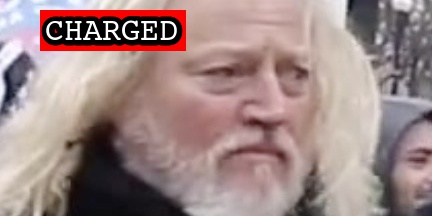
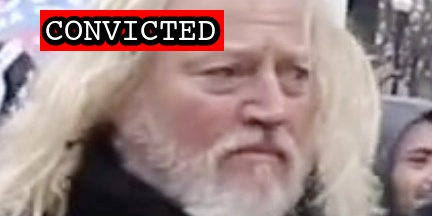
Add missing conviction

Changed region(s): [[0.1204, 0.0278, 0.5417, 0.25]]

diff --git a/docs/_suspects/luke-faulkner.md b/docs/_suspects/luke-faulkner.md
@@ -4,16 +4,16 @@ lastName: Faulkner
 hashtag:
 aka:
 residence: Ohio
-status: Charged
+status: Convicted
 date: 2021-12-07
 charged: 2021-12-07
 indicted:
-convicted:
+convicted: 2022-10-13
 acquitted:
 sentenced:
 dismissed:
 deceased:
-plea_hearing:
+plea_hearing: 2022-10-13
 trial_date:
 trial_type:
 sentencing: 2023-01-20
@@ -31,7 +31,7 @@ raid:
 perpwalk:
 quote:
 title: Luke Faulker charged on December 7, 2021
-description: Click for latest case details. Suspects innocent until proven guilty.
+description: Convicted on October 13, 2022. Click for latest case details.
 author: seditiontrack
 layout: suspect
 published: true
@@ -40,8 +40,13 @@ caseName: USA v. FAULKNER
 judge: Randolph D. Moss
 videos:
 charges:
+- code: 40 USC § 5104(e)(2)(G)
+  title: Parading, demonstrating or picketing in a Capitol building
+  url: https://www.law.cornell.edu/uscode/text/40/5104
+  felony: false
 sentence:
 ---
 - [News Report](https://www.springfieldnewssun.com/local/beavercreek-man-accused-of-entering-us-capitol-during-jan-6-riots/JTTNYTX6EFBWJPEOZXFEAJKBGQ/)
 - [Statement of Facts](https://www.justice.gov/usao-dc/case-multi-defendant/file/1459206/download)
 - [Information](https://www.justice.gov/usao-dc/case-multi-defendant/file/1459211/download)
+- [Plea Agreeement](https://storage.courtlistener.com/recap/gov.uscourts.dcd.238348/gov.uscourts.dcd.238348.59.0_1.pdfgs)
